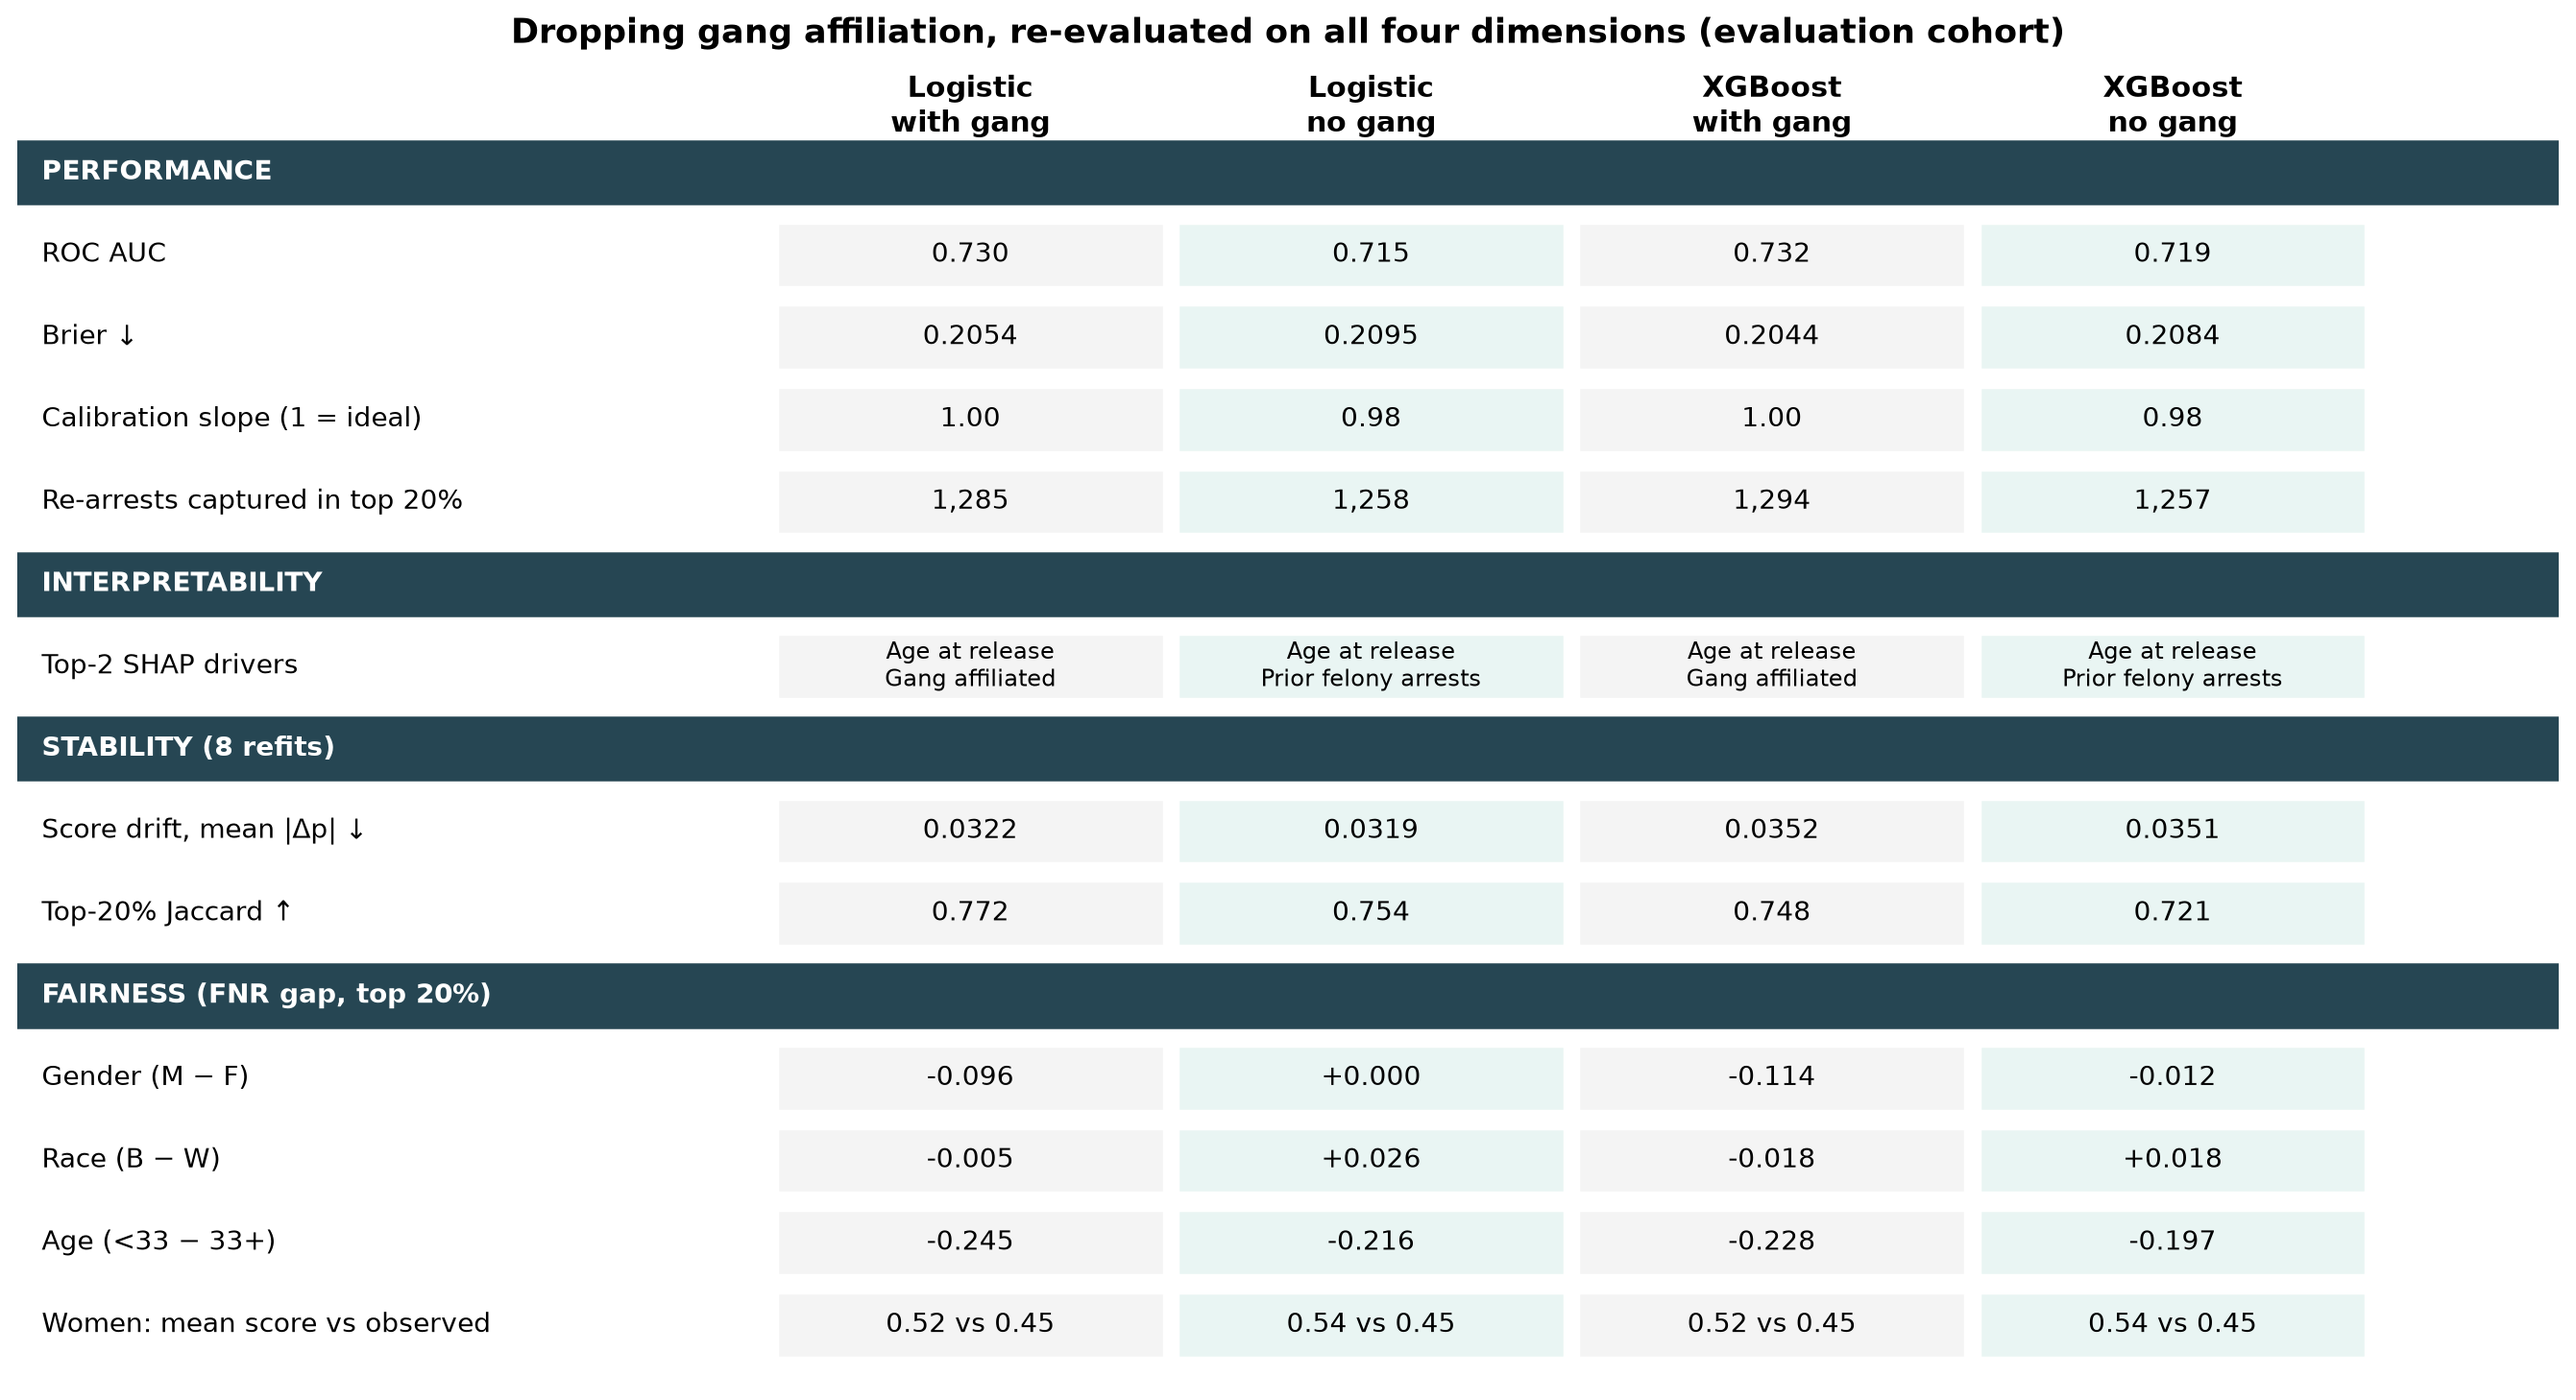
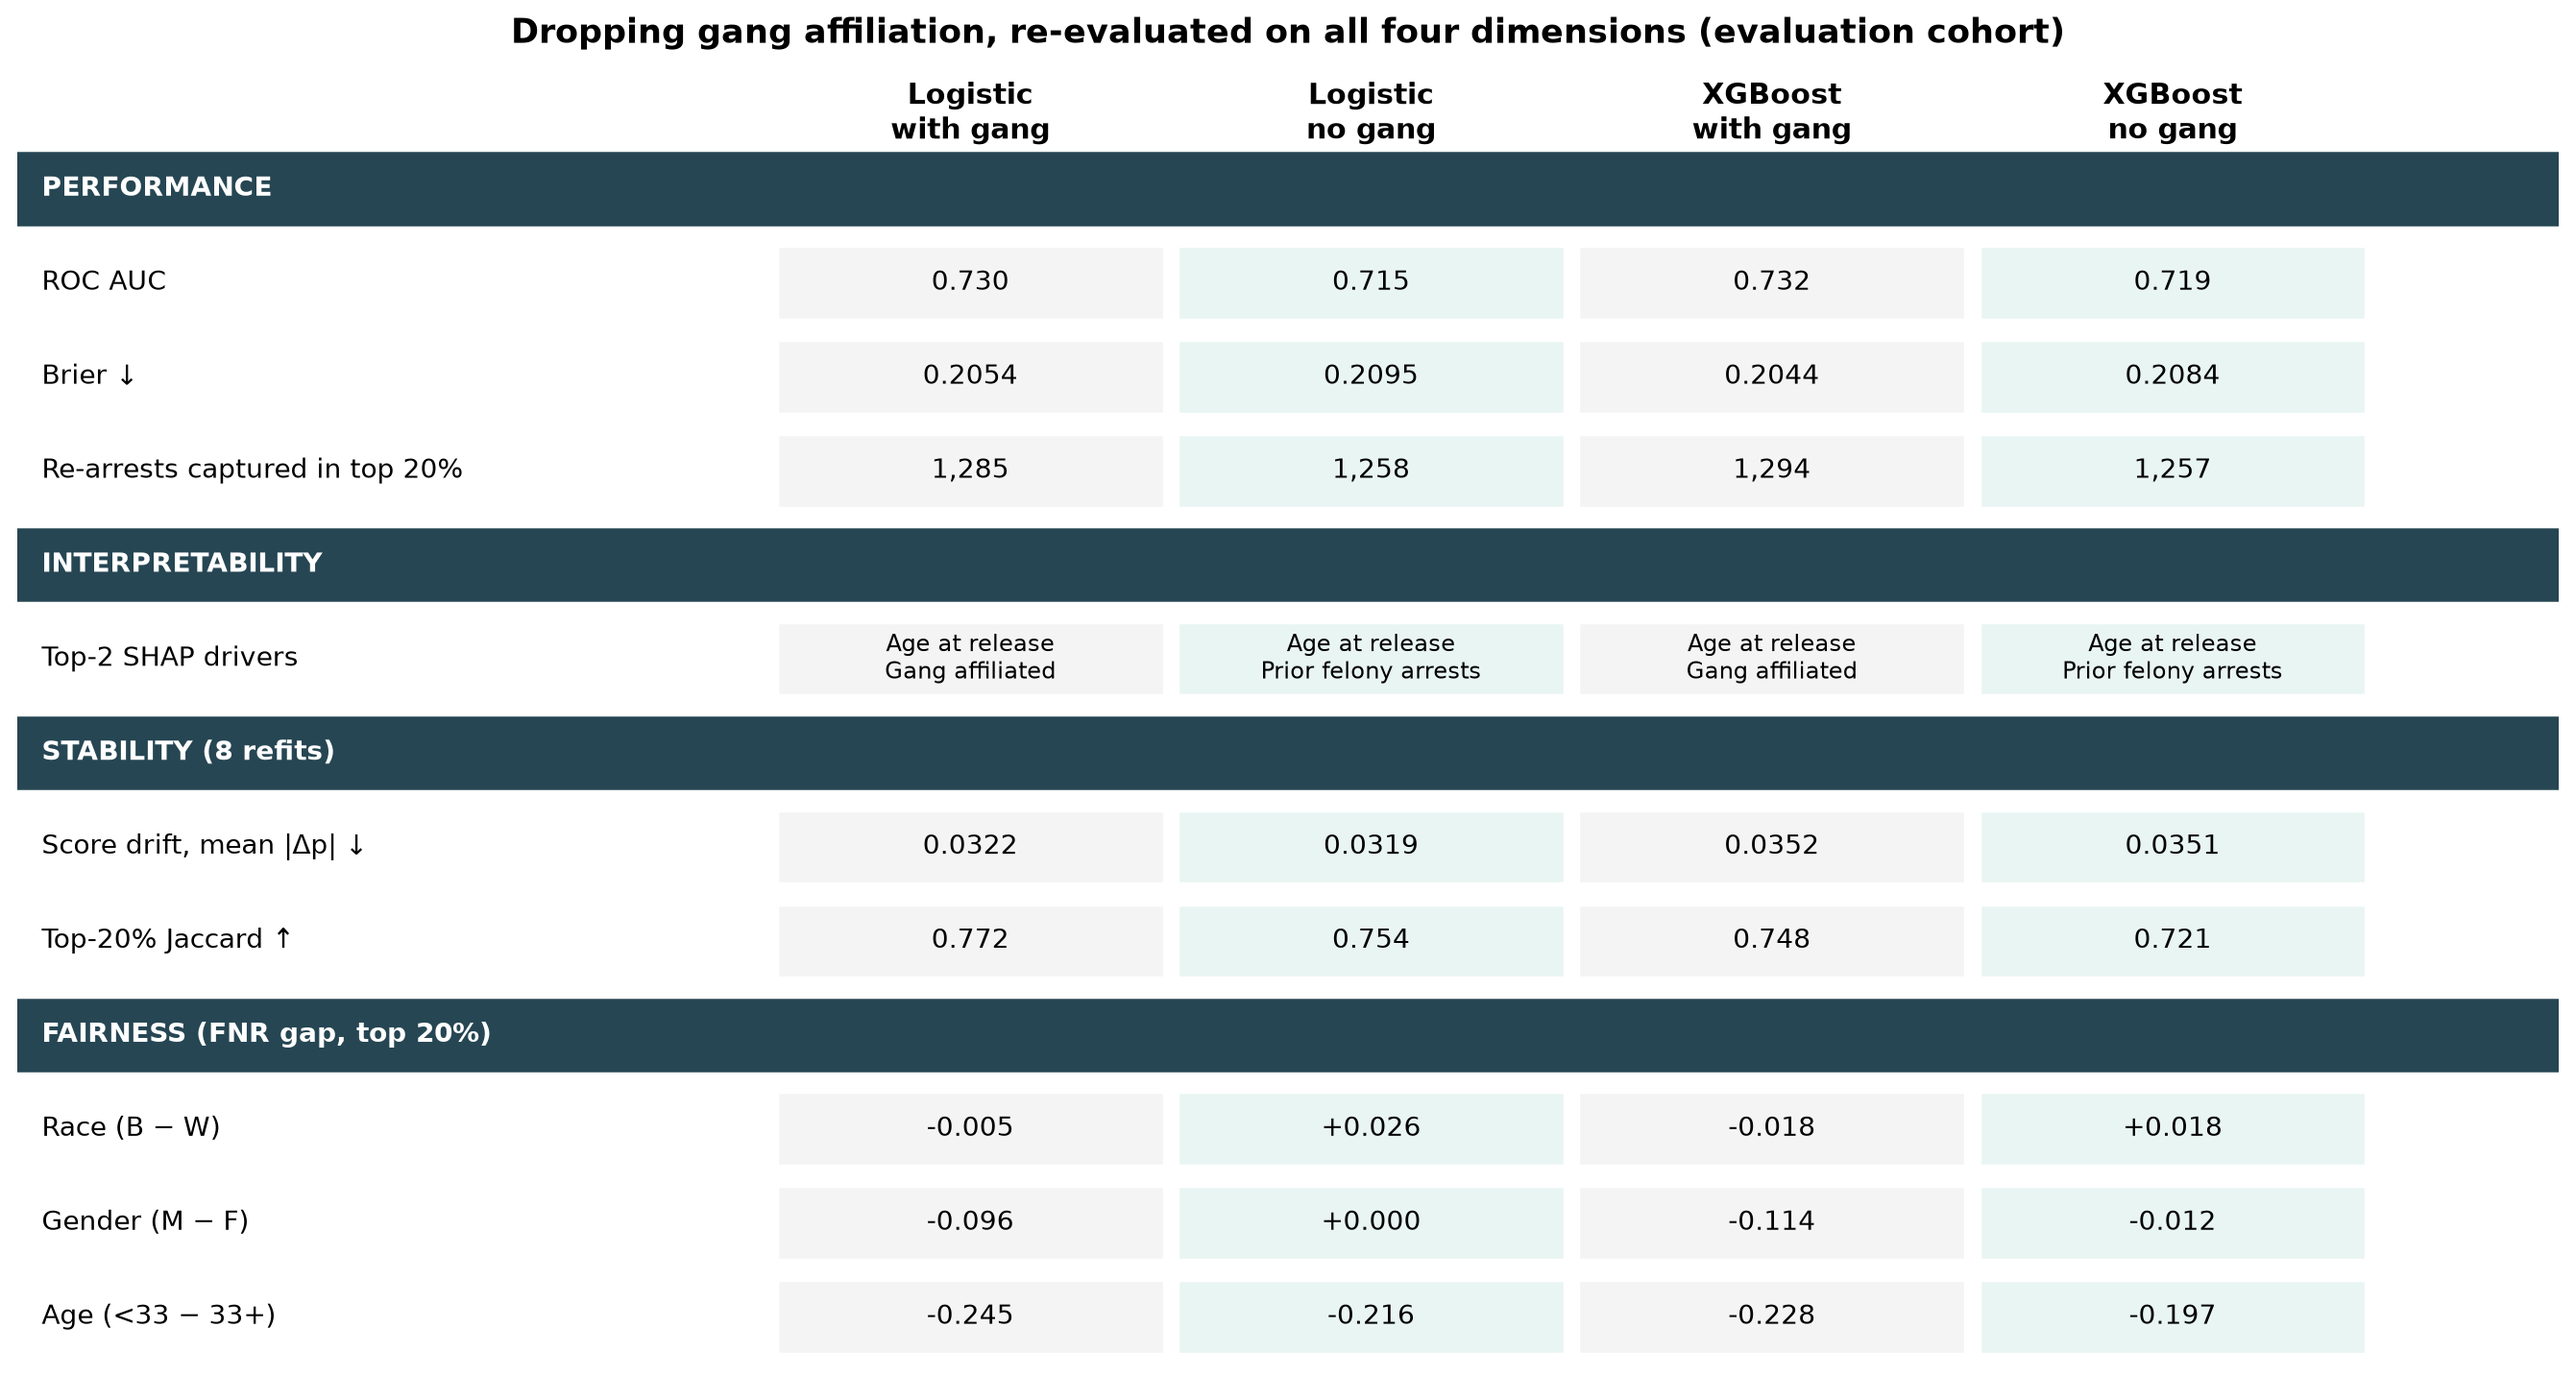
Gang comparison table: drop calibration and women rows; race first

diff --git a/scripts/gang_variant_eval.py b/scripts/gang_variant_eval.py
@@ -157,7 +157,6 @@ def comparison_figure(perf: pd.DataFrame, shap: pd.DataFrame) -> None:
         ("PERFORMANCE", None),
         ("ROC AUC", lambda x: f"{x.roc_auc:.3f}"),
         ("Brier ↓", lambda x: f"{x.brier:.4f}"),
-        ("Calibration slope (1 = ideal)", lambda x: f"{x.calibration_slope:.2f}"),
         ("Re-arrests captured in top 20%", lambda x: f"{int(x.captured_events):,}"),
         ("INTERPRETABILITY", None),
         ("Top-2 SHAP drivers", "top"),
@@ -165,10 +164,9 @@ def comparison_figure(perf: pd.DataFrame, shap: pd.DataFrame) -> None:
         ("Score drift, mean |Δp| ↓", lambda x: f"{x.mean_abs_prob_diff:.4f}"),
         ("Top-20% Jaccard ↑", lambda x: f"{x.top20_jaccard:.3f}"),
         ("FAIRNESS (FNR gap, top 20%)", None),
-        ("Gender (M − F)", lambda x: f"{x.gender_fnr_gap:+.3f}"),
         ("Race (B − W)", lambda x: f"{x.race_fnr_gap:+.3f}"),
+        ("Gender (M − F)", lambda x: f"{x.gender_fnr_gap:+.3f}"),
         ("Age (<33 − 33+)", lambda x: f"{x.age_fnr_gap:+.3f}"),
-        ("Women: mean score vs observed", lambda x: f"{x.women_mean_score:.2f} vs {x.women_observed_rate:.2f}"),
     ]
     fig, ax = plt.subplots(figsize=(15, 8.2))
     ax.axis("off")
